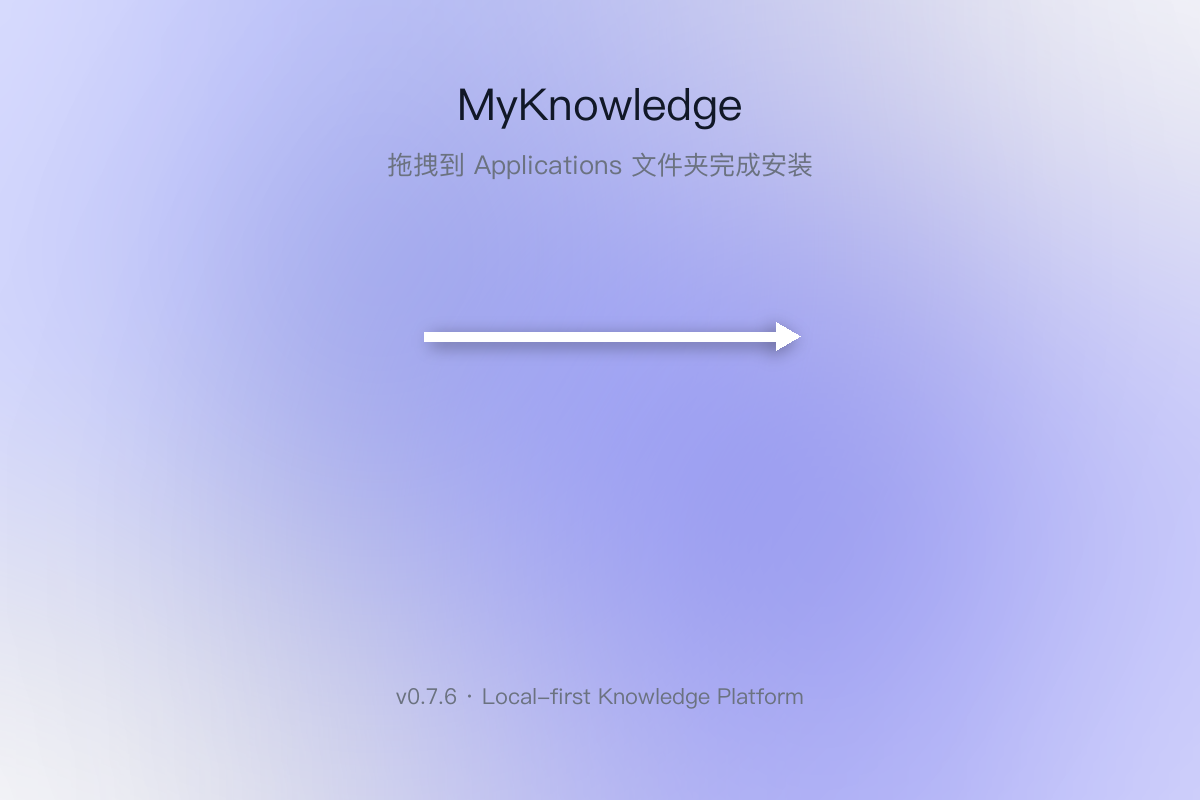
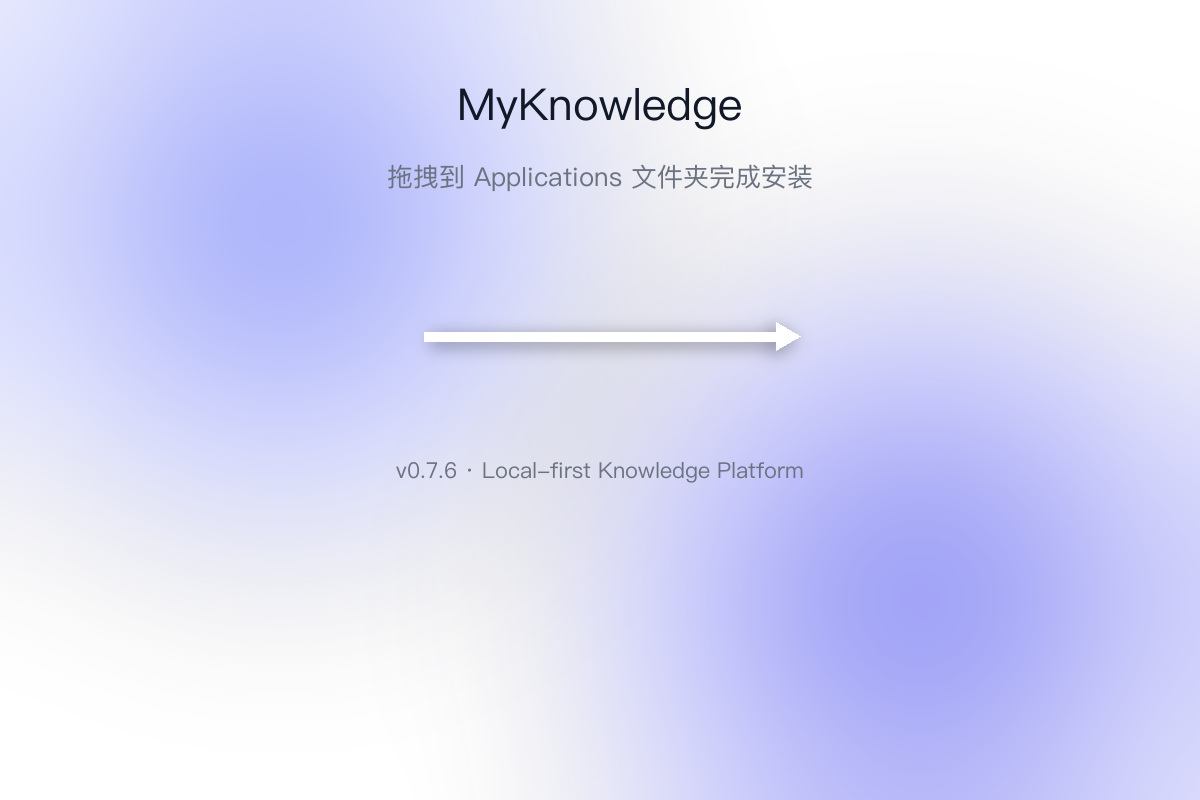
fix(desktop): DMG 背景光晕分明两球 + 版本号上移到图标行下方
1. 光晕：半径 280/290 → 200/210，blur 80 → 40，中心更靠角 (140,110)/(460,300)
   → 两个分明球，中部留出干净的图标/箭头呼吸区，不再糊成一片
2. 版本号/slogan：y=348 → y=235（图标行下方）
   → 旧位置超出 DMG Finder 实际窗口被裁切，新位置既安全又符合 Finder 习惯图标-标签
   验证：旧位置 0 个深色像素（确认未渲染），新位置 77 个深色像素（清晰可见）

diff --git a/scripts/make-dmg-background.py b/scripts/make-dmg-background.py
@@ -72,10 +72,10 @@ def render(scale: int) -> Image.Image:
 
     img = Image.new("RGB", (W, H), (0xFF, 0xFF, 0xFF))
 
-    # 光晕：对角线排布（左上 + 右下），大半径向中部扩散重叠形成斜向流动。
-    # 峰值偏高：斜对角两光晕重叠少，需各自够浓（区别于纵向定稿的互相叠浓）
-    img = _add_glow(img, 190 * S, 135 * S, 280 * S, (129, 140, 248), 230, 80 * S)
-    img = _add_glow(img, 410 * S, 265 * S, 290 * S, (99, 102, 241), 215, 80 * S)
+    # 光晕：对角线排布（左上 + 右下），半径更小 + blur 更弱 → 两个分明光球，
+    # 不再糊在一起。中心更靠角，让中部留出图标/箭头的干净呼吸区。
+    img = _add_glow(img, 140 * S, 110 * S, 200 * S, (129, 140, 248), 215, 40 * S)
+    img = _add_glow(img, 460 * S, 300 * S, 210 * S, (99, 102, 241), 200, 40 * S)
     d = ImageDraw.Draw(img)
 
     # 箭头：白色 + 柔光阴影（与定稿图一致）
@@ -87,14 +87,16 @@ def render(scale: int) -> Image.Image:
     d = ImageDraw.Draw(img)
     _arrow(d, 212 * S, 168 * S, 388 * S, 5 * S, (255, 255, 255, 255), head=0.9)
 
-    # 标题
+    # 标题区（顶部）
     f_title = _font(22 * S)
     d.text((W / 2, 52 * S), "MyKnowledge", font=f_title, fill=(0x11, 0x18, 0x27), anchor="mm")
     f_sub = _font(13 * S)
-    d.text((W / 2, 82 * S), "拖拽到 Applications 文件夹完成安装", font=f_sub,
+    d.text((W / 2, 88 * S), "拖拽到 Applications 文件夹完成安装", font=f_sub,
            fill=(0x6B, 0x72, 0x80), anchor="mm")
+    # 版本号/slogan：移到图标行下方（y=170+65=235）—— DMG Finder 窗口实际尺寸
+    # 不固定，贴底会被截；放在图标下方既安全又符合"图标-标签"的 Finder 习惯。
     f_tag = _font(11 * S)
-    d.text((W / 2, 348 * S), "v0.7.6 · Local-first Knowledge Platform", font=f_tag,
+    d.text((W / 2, 235 * S), "v0.7.6 · Local-first Knowledge Platform", font=f_tag,
            fill=(0x6B, 0x72, 0x80), anchor="mm")
 
     return img
